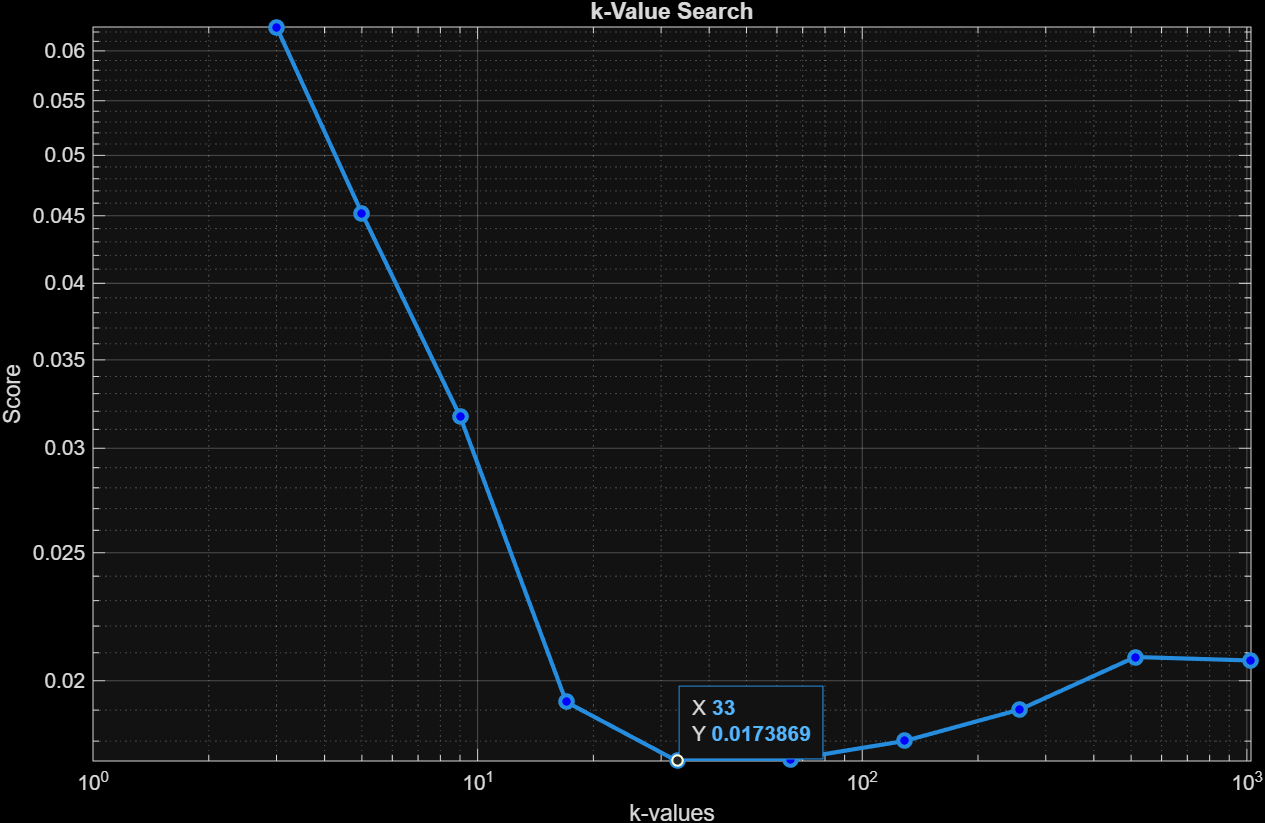
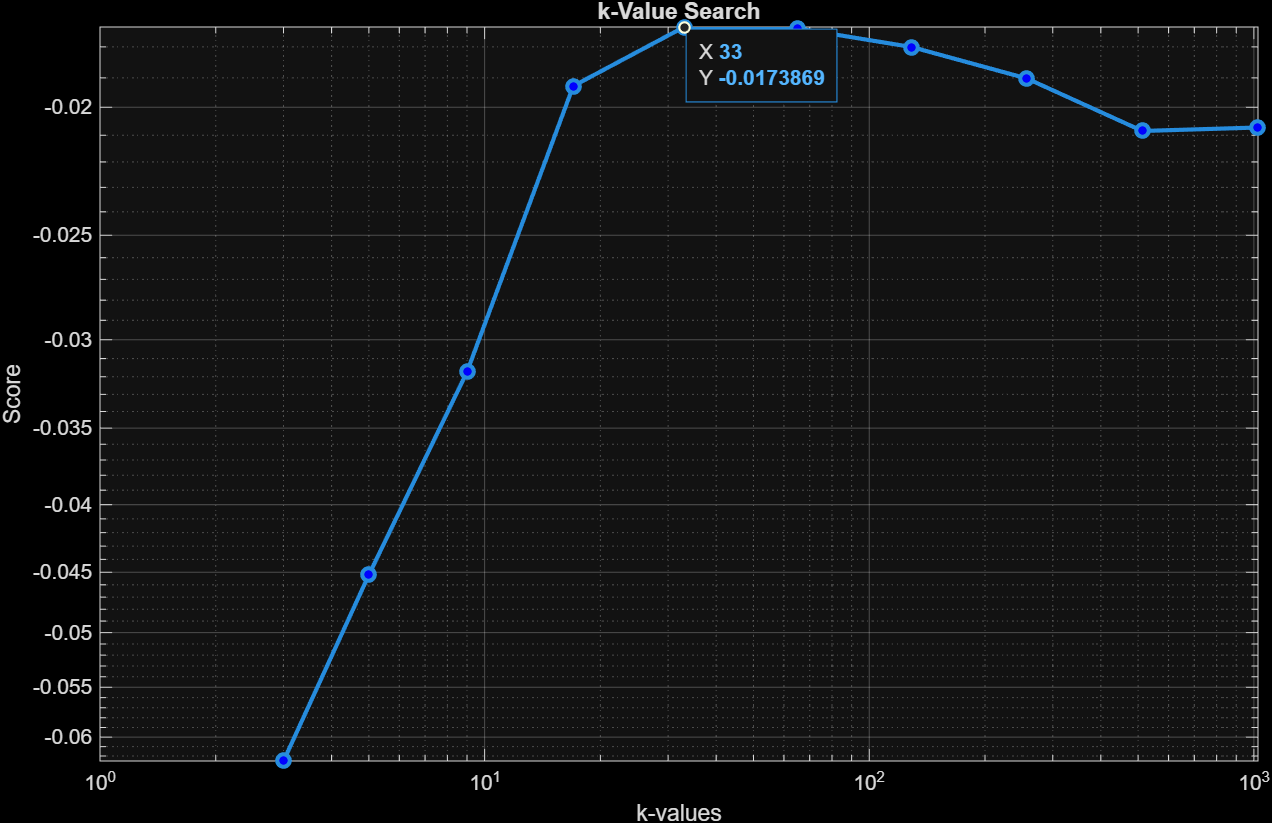
k-value

diff --git a/Scripts/validation.m b/Scripts/validation.m
@@ -52,7 +52,7 @@ best_k = 2^bestIdx + 1;
 
 % --- Plot Coarse Search Accuracies ---
 figure;
-loglog(k_values, abs(score), '-o', 'LineWidth', 2, 'MarkerFaceColor', 'b');
+loglog(k_values, score, '-o', 'LineWidth', 2, 'MarkerFaceColor', 'b');
 xlabel('k-values');
 ylabel('Score');
 title('k-Value Search');
